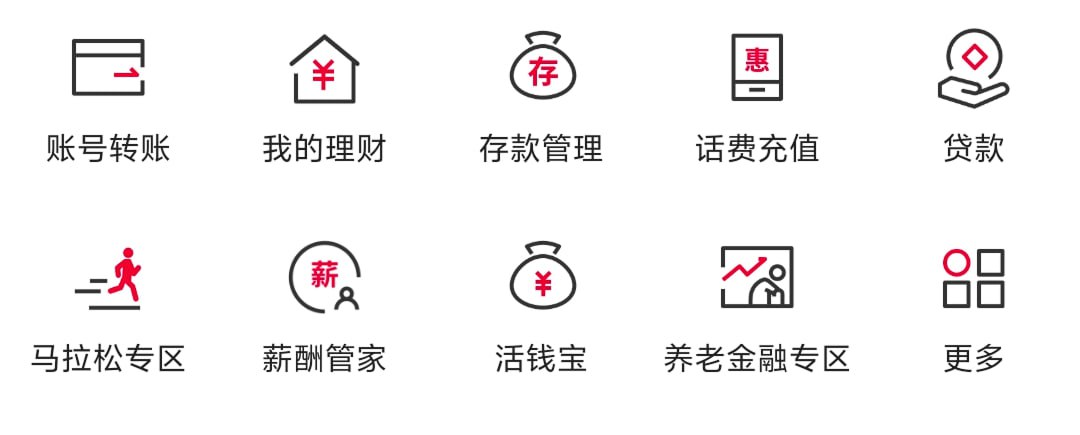
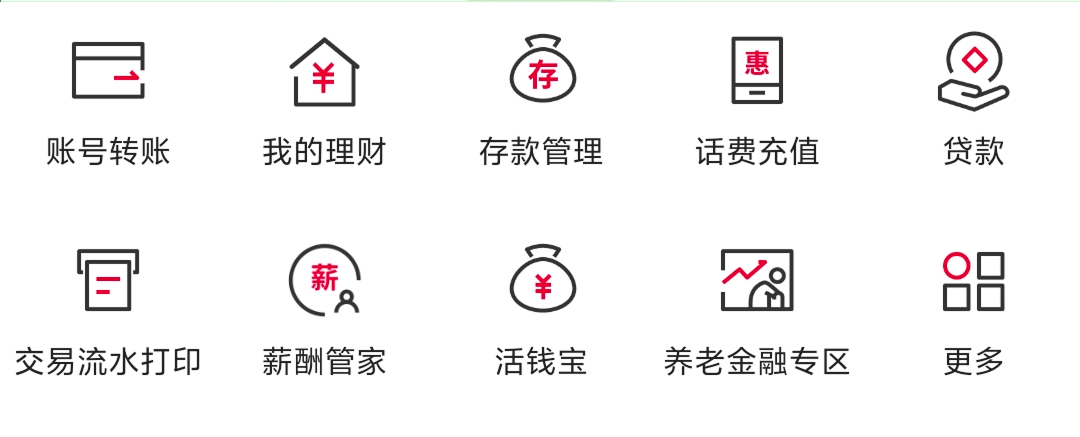
fix(*):更改首页功能图片

diff --git a/boc/lib/pages/tabs/home/component/function_banner_widget.dart b/boc/lib/pages/tabs/home/component/function_banner_widget.dart
@@ -131,15 +131,15 @@ class _FunctionBannerWidgetState extends State<FunctionBannerWidget> {
    return Stack(
      children: [
        Image(image: 'home_tag'.png3x,),
-       Positioned(
-           left: 0, 
-           bottom: 0,
-           child: Container(
-             width: 1.sw/5,
-             height: stackPosition.getHeight(216),
-             // color: Colors.red.withAlpha(20),
-           )
-       ),
+       // Positioned(
+       //     left: 0,
+       //     bottom: 0,
+       //     child: Container(
+       //       width: 1.sw/5,
+       //       height: stackPosition.getHeight(216),
+       //       color: Colors.red.withAlpha(20),
+       //     )
+       // ),
        VerticalGridView(
          padding: EdgeInsets.only(left: 15.w,right: 15.w),
          widgetBuilder: (_, index) {
